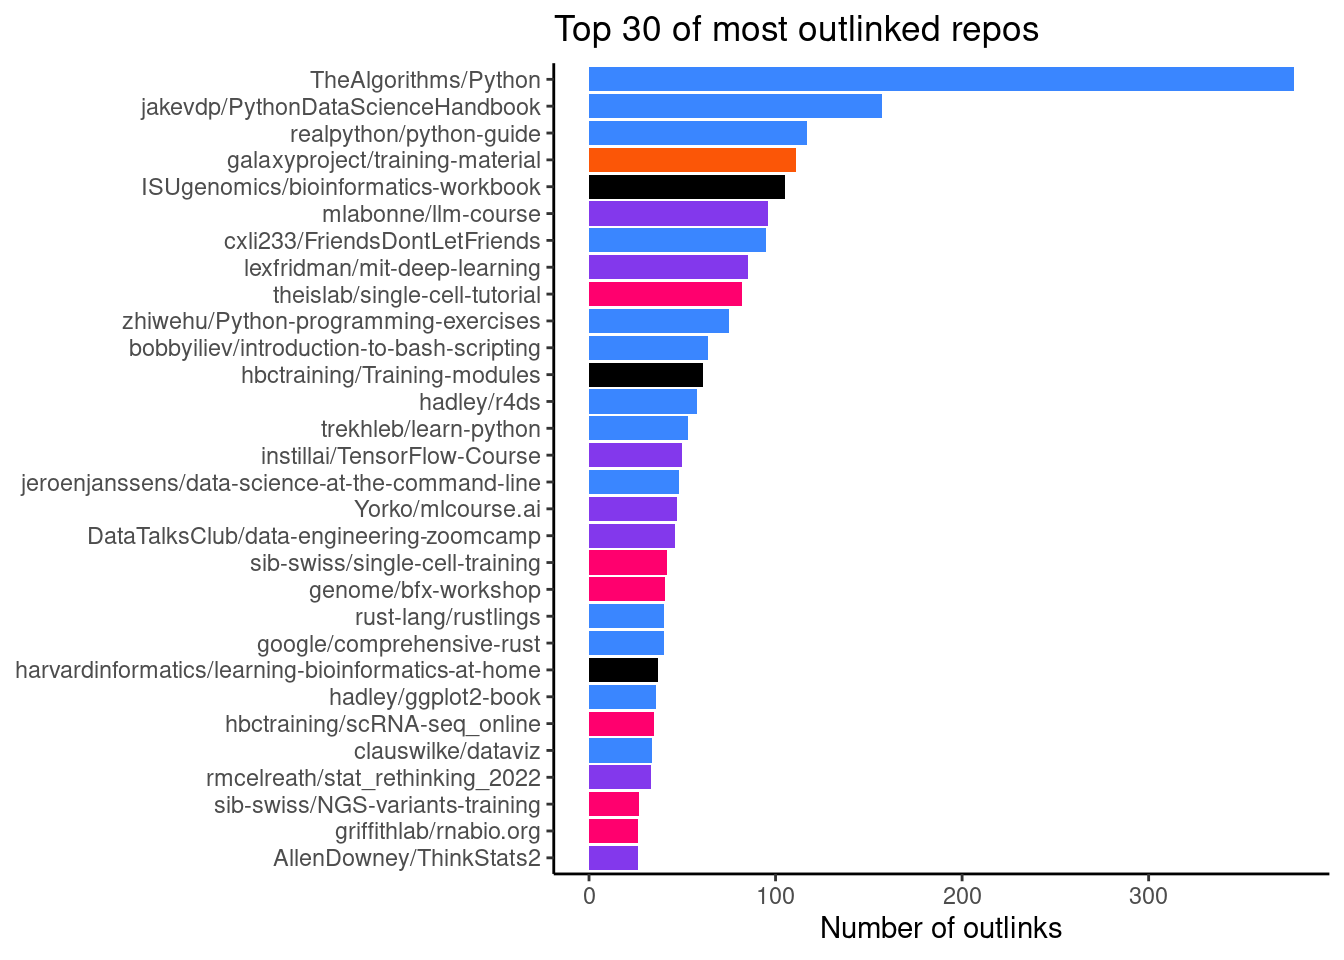
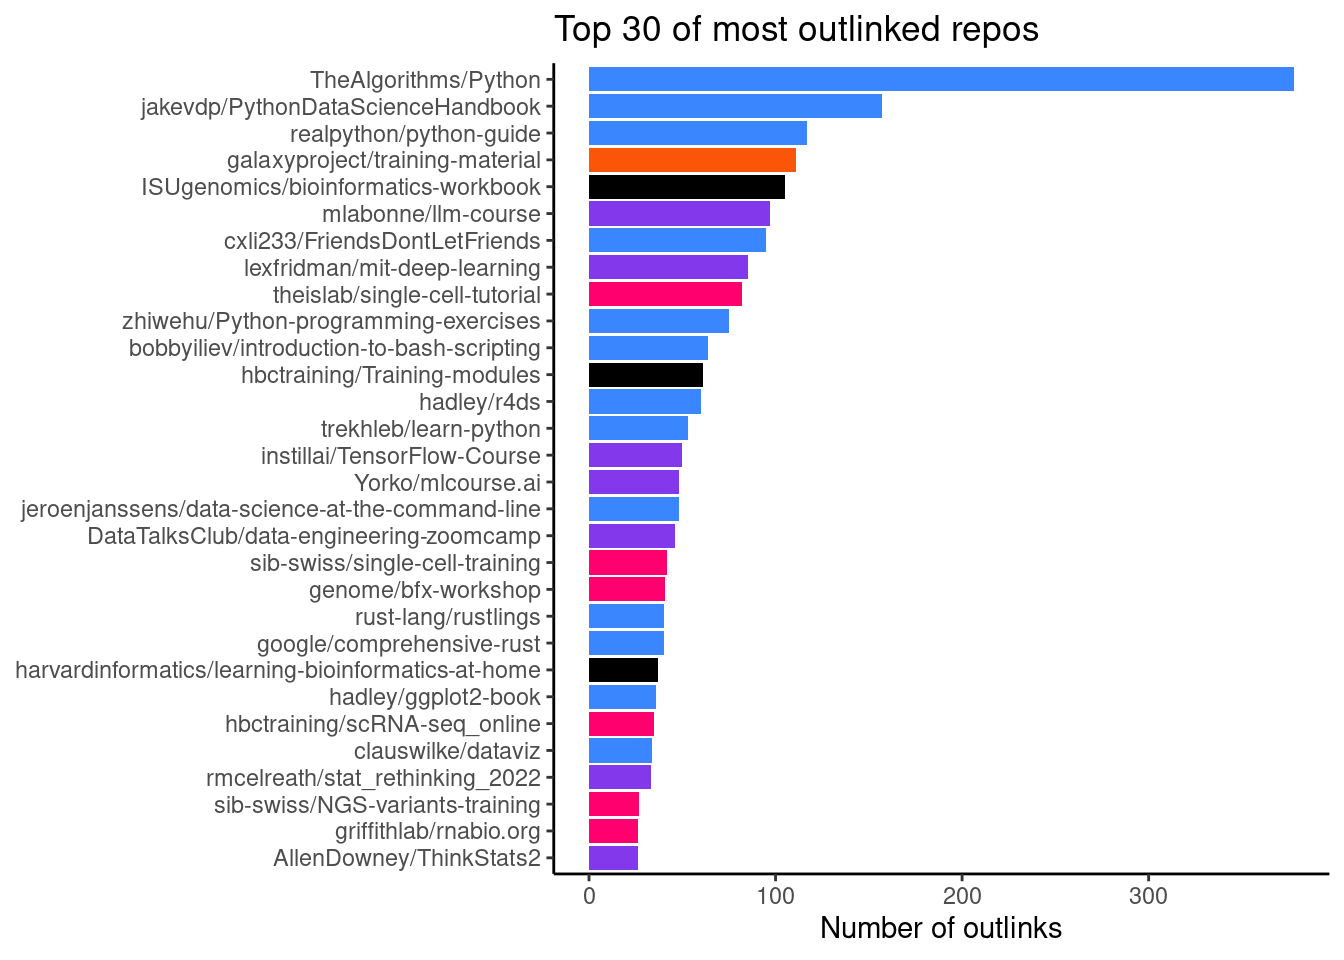
Built site for gh-pages

Changed region(s): [[0.0, 0.5, 0.4062, 0.5625], [0.4375, 0.4688, 0.5312, 0.5625]]

diff --git a/index.html b/index.html
@@ -508,8 +508,8 @@ pre > code.sourceCode > span > a:first-child::before { text-decoration: underlin
 </details>
 </div>
 <ul>
-<li>The number of outlink visits in the last year: 3426</li>
-<li>Number of repositories found using Glittr.org: 278</li>
+<li>The number of outlink visits in the last year: 3434</li>
+<li>Number of repositories found using Glittr.org: 279</li>
 <li>Most popular repo was TheAlgorithms/Python with 378 outlinks.</li>
 <li>Most popular namespace was TheAlgorithms with 378 outlinks.</li>
 </ul></section><section id="number-of-repositories-by-category" class="level2"><h2 class="anchored" data-anchor-id="number-of-repositories-by-category">Number of repositories by category</h2>
@@ -1365,7 +1365,7 @@ Table&nbsp;6: Number visits per repository
 </tr>
 <tr class="even">
 <td style="text-align: left;">mlabonne/llm-course</td>
-<td style="text-align: right;">96</td>
+<td style="text-align: right;">97</td>
 </tr>
 <tr class="odd">
 <td style="text-align: left;">cxli233/FriendsDontLetFriends</td>
@@ -1393,7 +1393,7 @@ Table&nbsp;6: Number visits per repository
 </tr>
 <tr class="odd">
 <td style="text-align: left;">hadley/r4ds</td>
-<td style="text-align: right;">58</td>
+<td style="text-align: right;">60</td>
 </tr>
 <tr class="even">
 <td style="text-align: left;">trekhleb/learn-python</td>
@@ -1409,7 +1409,7 @@ Table&nbsp;6: Number visits per repository
 </tr>
 <tr class="odd">
 <td style="text-align: left;">Yorko/mlcourse.ai</td>
-<td style="text-align: right;">47</td>
+<td style="text-align: right;">48</td>
 </tr>
 <tr class="even">
 <td style="text-align: left;">DataTalksClub/data-engineering-zoomcamp</td>
@@ -1470,7 +1470,7 @@ Table&nbsp;6: Number visits per repository
 </figure>
 </div>
 </div>
-<p>It becomes more interesting when we aggregate the data per main tag (<a href="#fig-outlinks-tag" class="quarto-xref">Figure&nbsp;8</a>). This gives us an idea of topic which people are looking for when visiting glittr.org. The most popular topic is Python with 879 outlinks.</p>
+<p>It becomes more interesting when we aggregate the data per main tag (<a href="#fig-outlinks-tag" class="quarto-xref">Figure&nbsp;8</a>). This gives us an idea of topic which people are looking for when visiting glittr.org. The most popular topic is Python with 877 outlinks.</p>
 <div class="cell">
 <div class="sourceCode" id="cb25"><pre class="downlit sourceCode r code-with-copy"><code class="sourceCode R"><span><span class="va">visits_by_main_tag</span> <span class="op">|&gt;</span></span>
 <span>  <span class="fu"><a href="https://dplyr.tidyverse.org/reference/slice.html">slice</a></span><span class="op">(</span><span class="fl">1</span><span class="op">:</span><span class="fl">30</span><span class="op">)</span> <span class="op">|&gt;</span></span>
@@ -1562,24 +1562,24 @@ Table&nbsp;7: Number visits per tag
 </tr>
 <tr class="odd">
 <td style="text-align: left;">Artificial intelligence</td>
-<td style="text-align: right;">117</td>
+<td style="text-align: right;">118</td>
 <td style="text-align: left;">Statistics and machine learning</td>
 <td style="text-align: right;">6</td>
-<td style="text-align: right;">19.5000000</td>
+<td style="text-align: right;">19.6666667</td>
 </tr>
 <tr class="even">
 <td style="text-align: left;">General</td>
-<td style="text-align: right;">322</td>
+<td style="text-align: right;">324</td>
 <td style="text-align: left;">Others</td>
 <td style="text-align: right;">34</td>
-<td style="text-align: right;">9.4705882</td>
+<td style="text-align: right;">9.5294118</td>
 </tr>
 <tr class="odd">
 <td style="text-align: left;">Python</td>
-<td style="text-align: right;">879</td>
+<td style="text-align: right;">877</td>
 <td style="text-align: left;">Scripting and languages</td>
 <td style="text-align: right;">103</td>
-<td style="text-align: right;">8.5339806</td>
+<td style="text-align: right;">8.5145631</td>
 </tr>
 <tr class="even">
 <td style="text-align: left;">Multiomics</td>
@@ -1604,10 +1604,10 @@ Table&nbsp;7: Number visits per tag
 </tr>
 <tr class="odd">
 <td style="text-align: left;">Machine learning</td>
-<td style="text-align: right;">268</td>
+<td style="text-align: right;">269</td>
 <td style="text-align: left;">Statistics and machine learning</td>
 <td style="text-align: right;">55</td>
-<td style="text-align: right;">4.8727273</td>
+<td style="text-align: right;">4.8909091</td>
 </tr>
 <tr class="even">
 <td style="text-align: left;">Single-cell sequencing</td>
@@ -1653,51 +1653,65 @@ Table&nbsp;7: Number visits per tag
 </tr>
 <tr class="even">
 <td style="text-align: left;">Long read sequencing</td>
-<td style="text-align: right;">18</td>
+<td style="text-align: right;">19</td>
 <td style="text-align: left;">Omics analysis</td>
 <td style="text-align: right;">9</td>
-<td style="text-align: right;">2.0000000</td>
+<td style="text-align: right;">2.1111111</td>
 </tr>
 <tr class="odd">
-<td style="text-align: left;">MATLAB/Octave</td>
+<td style="text-align: left;">C/C++</td>
 <td style="text-align: right;">2</td>
 <td style="text-align: left;">Scripting and languages</td>
 <td style="text-align: right;">1</td>
 <td style="text-align: right;">2.0000000</td>
 </tr>
 <tr class="even">
+<td style="text-align: left;">MATLAB/Octave</td>
+<td style="text-align: right;">2</td>
+<td style="text-align: left;">Scripting and languages</td>
+<td style="text-align: right;">1</td>
+<td style="text-align: right;">2.0000000</td>
+</tr>
+<tr class="odd">
 <td style="text-align: left;">Quarto</td>
 <td style="text-align: right;">23</td>
 <td style="text-align: left;">Scripting and languages</td>
 <td style="text-align: right;">12</td>
 <td style="text-align: right;">1.9166667</td>
 </tr>
-<tr class="odd">
+<tr class="even">
 <td style="text-align: left;">Epigenetics</td>
 <td style="text-align: right;">16</td>
 <td style="text-align: left;">Omics analysis</td>
 <td style="text-align: right;">10</td>
 <td style="text-align: right;">1.6000000</td>
 </tr>
-<tr class="even">
+<tr class="odd">
 <td style="text-align: left;">Cloud computing</td>
 <td style="text-align: right;">15</td>
 <td style="text-align: left;">Computational methods and pipelines</td>
 <td style="text-align: right;">10</td>
 <td style="text-align: right;">1.5000000</td>
 </tr>
-<tr class="odd">
+<tr class="even">
 <td style="text-align: left;">Statistics</td>
 <td style="text-align: right;">98</td>
 <td style="text-align: left;">Statistics and machine learning</td>
 <td style="text-align: right;">67</td>
 <td style="text-align: right;">1.4626866</td>
 </tr>
-<tr class="even">
+<tr class="odd">
 <td style="text-align: left;">Containerization</td>
 <td style="text-align: right;">28</td>
 <td style="text-align: left;">Computational methods and pipelines</td>
 <td style="text-align: right;">20</td>
+<td style="text-align: right;">1.4000000</td>
+</tr>
+<tr class="even">
+<td style="text-align: left;">High performance computing</td>
+<td style="text-align: right;">14</td>
+<td style="text-align: left;">Computational methods and pipelines</td>
+<td style="text-align: right;">10</td>
 <td style="text-align: right;">1.4000000</td>
 </tr>
 <tr class="odd">
@@ -1708,53 +1722,39 @@ Table&nbsp;7: Number visits per tag
 <td style="text-align: right;">1.3333333</td>
 </tr>
 <tr class="even">
-<td style="text-align: left;">High performance computing</td>
-<td style="text-align: right;">13</td>
-<td style="text-align: left;">Computational methods and pipelines</td>
-<td style="text-align: right;">10</td>
-<td style="text-align: right;">1.3000000</td>
-</tr>
-<tr class="odd">
 <td style="text-align: left;">Data science</td>
 <td style="text-align: right;">64</td>
 <td style="text-align: left;">Statistics and machine learning</td>
 <td style="text-align: right;">59</td>
 <td style="text-align: right;">1.0847458</td>
 </tr>
-<tr class="even">
+<tr class="odd">
 <td style="text-align: left;">Next generation sequencing</td>
 <td style="text-align: right;">63</td>
 <td style="text-align: left;">Omics analysis</td>
 <td style="text-align: right;">64</td>
 <td style="text-align: right;">0.9843750</td>
 </tr>
-<tr class="odd">
+<tr class="even">
 <td style="text-align: left;">Transcriptomics</td>
 <td style="text-align: right;">80</td>
 <td style="text-align: left;">Omics analysis</td>
 <td style="text-align: right;">90</td>
 <td style="text-align: right;">0.8888889</td>
 </tr>
-<tr class="even">
+<tr class="odd">
 <td style="text-align: left;">Metagenomics</td>
 <td style="text-align: right;">14</td>
 <td style="text-align: left;">Omics analysis</td>
 <td style="text-align: right;">17</td>
 <td style="text-align: right;">0.8235294</td>
 </tr>
-<tr class="odd">
+<tr class="even">
 <td style="text-align: left;">Variant analysis</td>
 <td style="text-align: right;">26</td>
 <td style="text-align: left;">Omics analysis</td>
 <td style="text-align: right;">32</td>
 <td style="text-align: right;">0.8125000</td>
-</tr>
-<tr class="even">
-<td style="text-align: left;">R</td>
-<td style="text-align: right;">197</td>
-<td style="text-align: left;">Scripting and languages</td>
-<td style="text-align: right;">267</td>
-<td style="text-align: right;">0.7378277</td>
 </tr>
 </tbody>
 </table>
@@ -1785,7 +1785,7 @@ Table&nbsp;8: Number visits per namespace
 </tr>
 <tr class="even">
 <td style="text-align: left;">sib-swiss</td>
-<td style="text-align: right;">210</td>
+<td style="text-align: right;">211</td>
 </tr>
 <tr class="odd">
 <td style="text-align: left;">jakevdp</td>
@@ -1793,7 +1793,7 @@ Table&nbsp;8: Number visits per namespace
 </tr>
 <tr class="even">
 <td style="text-align: left;">hadley</td>
-<td style="text-align: right;">124</td>
+<td style="text-align: right;">126</td>
 </tr>
 <tr class="odd">
 <td style="text-align: left;">hbctraining</td>
@@ -1816,12 +1816,12 @@ Table&nbsp;8: Number visits per namespace
 <td style="text-align: right;">100</td>
 </tr>
 <tr class="even">
-<td style="text-align: left;">theislab</td>
+<td style="text-align: left;">mlabonne</td>
 <td style="text-align: right;">97</td>
 </tr>
 <tr class="odd">
-<td style="text-align: left;">mlabonne</td>
-<td style="text-align: right;">96</td>
+<td style="text-align: left;">theislab</td>
+<td style="text-align: right;">97</td>
 </tr>
 <tr class="even">
 <td style="text-align: left;">cxli233</td>
@@ -1852,12 +1852,12 @@ Table&nbsp;8: Number visits per namespace
 <td style="text-align: right;">50</td>
 </tr>
 <tr class="odd">
-<td style="text-align: left;">jeroenjanssens</td>
+<td style="text-align: left;">Yorko</td>
 <td style="text-align: right;">48</td>
 </tr>
 <tr class="even">
-<td style="text-align: left;">Yorko</td>
-<td style="text-align: right;">47</td>
+<td style="text-align: left;">jeroenjanssens</td>
+<td style="text-align: right;">48</td>
 </tr>
 <tr class="odd">
 <td style="text-align: left;">DataTalksClub</td>
